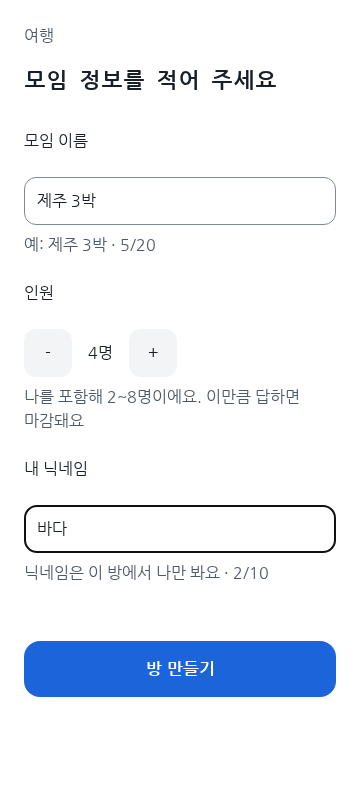
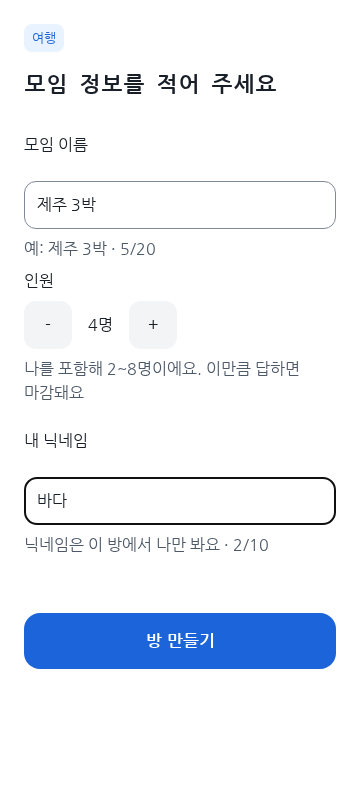
TASK-039: address form feedback and accessibility review

diff --git a/apps/web/src/CreateRoom.tsx b/apps/web/src/CreateRoom.tsx
@@ -23,7 +23,7 @@ export function Themes() {
   return <main className="create"><h1>어떤 모임인가요?</h1><p>테마마다 문항 8개가 정해져 있어요</p>
     {error !== undefined && <div role="alert"><p>잠시 뒤 다시 해 주세요</p>{error && <p>오류 번호 {error}</p>}<button className="link-button" onClick={() => void load()}>다시 시도</button></div>}
     {loading && !themes && <div className="skeletons" role="status"><span /><span /><span /><span className="sr-only">불러오고 있어요</span></div>}
-    {themes && (themes.length ? <ul className="room-list">{themes.map(theme => <li key={theme.themeId}><button className="menu-button" onClick={() => { roomDraft.theme = theme; navigate('/rooms/new/details', true); }}>{theme.name}</button></li>)}</ul> : <div><p>지금은 만들 수 있는 테마가 없어요</p><p>테마가 준비되면 여기에 보여요</p></div>)}
+    {themes && (themes.length ? <ul className="room-list">{themes.map(theme => <li key={theme.themeId}><button className="menu-button" onClick={() => { roomDraft.theme = theme; navigate('/rooms/new/details', true); }}>{theme.name}<span aria-hidden="true">›</span></button></li>)}</ul> : <div><p>지금은 만들 수 있는 테마가 없어요</p><p>테마가 준비되면 여기에 보여요</p></div>)}
   </main>;
 }
 type FieldErrors = Partial<Record<'gatheringName' | 'partySize' | 'hostNickname', string>>;
@@ -49,16 +49,16 @@ export function RoomDetails() {
       else if (err instanceof ApiError && ['unauthenticated', 'reauthentication_failed'].includes(err.problem.code)) { sessionState.reauthenticationFailed = true; navigate('/', true); }
       else if (err instanceof ApiError && err.problem.code === 'theme_unavailable') setUnavailable(true);
       else if (err instanceof ApiError && err.problem.code === 'validation_failed') {
-        const fields: FieldErrors = {}; for (const item of err.problem.errors || []) if (item.field in messages) fields[item.field as keyof FieldErrors] = messages[item.field as keyof FieldErrors]; setErrors(fields);
+        const fields: FieldErrors = {}; for (const item of err.problem.errors || []) if (item.field in messages) fields[item.field as keyof FieldErrors] = messages[item.field as keyof FieldErrors]; setErrors(fields); if (!Object.keys(fields).length) setError(err.problem.traceId || '');
       } else { setError(err instanceof ApiError ? err.problem.traceId || '' : ''); if (err instanceof ApiError) setSeconds(err.retryAfter); }
     } finally { setLoading(false); }
   }
   if (!roomDraft.theme) return <main />;
   if (permission) return <main className="entry"><section className="entry-content"><h1>지금은 쓸 수 없어요</h1></section></main>;
-  return <main className="create"><p>{roomDraft.theme.name}</p><h1>모임 정보를 적어 주세요</h1>
-    <fieldset disabled={loading}><label htmlFor="gathering">모임 이름</label><input id="gathering" value={name} maxLength={40} onChange={e => setName(e.target.value)} onBlur={() => setErrors(e => ({ ...e, gatheringName: nameValid.valid ? undefined : messages.gatheringName }))} aria-invalid={Boolean(errors.gatheringName)} /><p>예: 제주 3박 · {[...name.trim()].length}/20</p>{errors.gatheringName && <p role="alert">{errors.gatheringName}</p>}
-    <label>인원</label><div className="counter"><button aria-label="인원 줄이기" onClick={() => setSize(s => Math.max(2, s - 1))} disabled={size === 2}>-</button><span>{size}명</span><button aria-label="인원 늘리기" onClick={() => setSize(s => Math.min(8, s + 1))} disabled={size === 8}>+</button></div><p>나를 포함해 2~8명이에요. 이만큼 답하면 마감돼요</p>{errors.partySize && <p role="alert">{errors.partySize}</p>}
-    <label htmlFor="nickname">내 닉네임</label><input id="nickname" value={nickname} maxLength={30} onChange={e => setNickname(e.target.value)} onBlur={() => setErrors(e => ({ ...e, hostNickname: nickValid.valid ? undefined : messages.hostNickname }))} aria-invalid={Boolean(errors.hostNickname)} /><p>닉네임은 이 방에서 나만 봐요 · {[...nickname.trim()].length}/10</p>{errors.hostNickname && <p role="alert">{errors.hostNickname}</p>}</fieldset>
+  return <main className="create"><p><span className="room-tag theme-badge">{roomDraft.theme.name}</span></p><h1>모임 정보를 적어 주세요</h1>
+    <fieldset disabled={loading}><label htmlFor="gathering">모임 이름</label><input id="gathering" aria-describedby="gathering-help" value={name} maxLength={40} onChange={e => setName(e.target.value)} onBlur={() => setErrors(e => ({ ...e, gatheringName: nameValid.valid ? undefined : messages.gatheringName }))} aria-invalid={Boolean(errors.gatheringName)} /><p id="gathering-help">예: 제주 3박 · {[...name.trim()].length}/20</p>{errors.gatheringName && <p role="alert">{errors.gatheringName}</p>}
+    <span id="party-size-label">인원</span><div className="counter" role="group" aria-labelledby="party-size-label"><button aria-label="인원 줄이기" onClick={() => setSize(s => Math.max(2, s - 1))} disabled={size === 2}>-</button><output aria-live="polite">{size}명</output><button aria-label="인원 늘리기" onClick={() => setSize(s => Math.min(8, s + 1))} disabled={size === 8}>+</button></div><p>나를 포함해 2~8명이에요. 이만큼 답하면 마감돼요</p>{errors.partySize && <p role="alert">{errors.partySize}</p>}
+    <label htmlFor="nickname">내 닉네임</label><input id="nickname" aria-describedby="nickname-help" value={nickname} maxLength={30} onChange={e => setNickname(e.target.value)} onBlur={() => setErrors(e => ({ ...e, hostNickname: nickValid.valid ? undefined : messages.hostNickname }))} aria-invalid={Boolean(errors.hostNickname)} /><p id="nickname-help">닉네임은 이 방에서 나만 봐요 · {[...nickname.trim()].length}/10</p>{errors.hostNickname && <p role="alert">{errors.hostNickname}</p>}</fieldset>
     {unavailable && <div role="alert"><p>이 테마는 지금 쓸 수 없어요</p><button className="link-button" onClick={() => navigate('/rooms/new', true)}>테마 다시 고르기</button></div>}
     {error !== undefined && <div role="alert"><p>잠시 뒤 다시 해 주세요</p>{error && <p>오류 번호 {error}</p>}</div>}
     <div className="create-action"><Button display="block" loading={loading} disabled={!nameValid.valid || !nickValid.valid || loading || seconds > 0 || unavailable} onClick={() => void submit()}>{seconds ? `다시 시도 (${seconds}초)` : '방 만들기'}</Button></div>

diff --git a/apps/web/e2e/create-room.spec.ts b/apps/web/e2e/create-room.spec.ts
@@ -7,6 +7,8 @@ test('테마를 골라 이름과 인원을 적고 방을 만든다', async ({ pa
   await page.goto('/rooms/new');
   await page.getByRole('button', { name: '여행' }).click();
   await expect(page.getByRole('heading', { name: '모임 정보를 적어 주세요' })).toBeVisible();
+  await expect(page.getByRole('group', { name: '인원' })).toContainText('4명');
+  await expect(page.getByLabel('모임 이름')).toHaveAttribute('aria-describedby', 'gathering-help');
   const submit = page.getByRole('button', { name: '방 만들기' });
   await expect(submit).toBeDisabled();
   await page.getByLabel('모임 이름').fill('제주 3박');
@@ -24,6 +26,15 @@ test('서버의 칸별 오류를 표시하고 입력을 보존한다', async ({ 
   await page.getByLabel('모임 이름').fill('제주 3박'); await page.getByLabel('내 닉네임').fill('바다');
   await page.getByRole('button', { name: '방 만들기' }).click();
   await expect(page.getByRole('alert')).toContainText('모임 이름은 1~20자로 적어 주세요');
+  await expect(page.getByLabel('모임 이름')).toHaveCSS('border-top-color', 'rgb(185, 28, 28)');
+  await expect(page.getByRole('alert')).toHaveCSS('color', 'rgb(185, 28, 28)');
   await expect(page.getByLabel('모임 이름')).toHaveValue('제주 3박');
   await expect(page.getByLabel('내 닉네임')).toHaveValue('바다');
+});
+test('표시할 칸이 없는 서버 오류는 일반 오류로 안내한다', async ({ page }) => {
+  await page.route('**/v1/themes', route => route.fulfill({ json: { themes: [{ themeId: 'travel', name: '여행', questionSetVersion: 1 }] }, headers: cors }));
+  await page.route('**/v1/rooms', route => route.request().method() === 'OPTIONS' ? route.fulfill({ status: 204, headers: cors }) : route.fulfill({ status: 400, headers: cors, json: { status: 400, code: 'validation_failed', errors: [{ field: 'themeId', reason: 'invalid' }] } }));
+  await page.goto('/rooms/new'); await page.getByRole('button', { name: /여행/ }).click();
+  await page.getByLabel('모임 이름').fill('제주 3박'); await page.getByLabel('내 닉네임').fill('바다'); await page.getByRole('button', { name: '방 만들기' }).click();
+  await expect(page.getByRole('alert')).toContainText('잠시 뒤 다시 해 주세요');
 });

diff --git a/apps/web/src/style.css b/apps/web/src/style.css
@@ -59,3 +59,11 @@ main { color: var(--color-text-primary); padding: var(--space-6); }
 .create-action button:disabled span { color: var(--color-disabled-text) !important; }
 
 .create-action button:disabled { opacity: 1 !important; }
+
+/* Error feedback uses the fixed error tokens across screens. */
+[role="alert"] { color: var(--color-feedback-error); }
+[role="alert"] p, .create [role="alert"] p, .create p[role="alert"] { color: var(--color-feedback-error); }
+div[role="alert"] { background: var(--color-feedback-error-bg); border-radius: var(--radius-box); padding: var(--space-3); }
+.create input[aria-invalid="true"] { border-width: 2px; border-color: var(--color-feedback-error); }
+.theme-badge { display: inline-block; font-size: var(--font-size-caption); color: var(--color-accent-on-subtle); background: var(--color-accent-subtle); padding: var(--space-1) var(--space-2); border-radius: var(--radius-chip); }
+.create .menu-button { display: flex; justify-content: space-between; }
